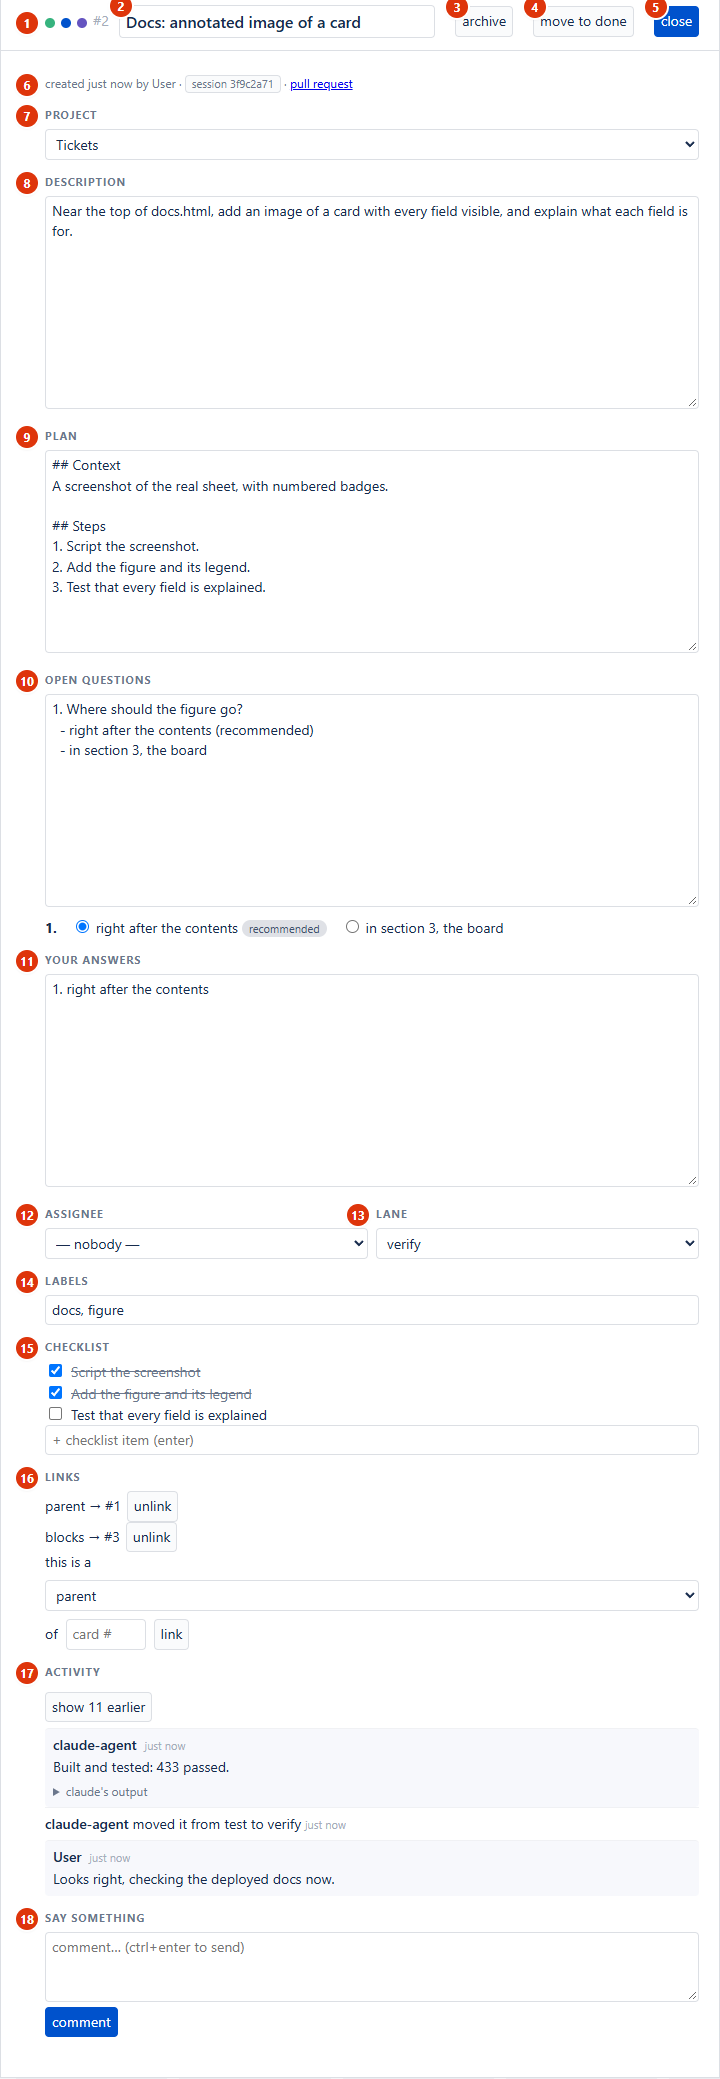
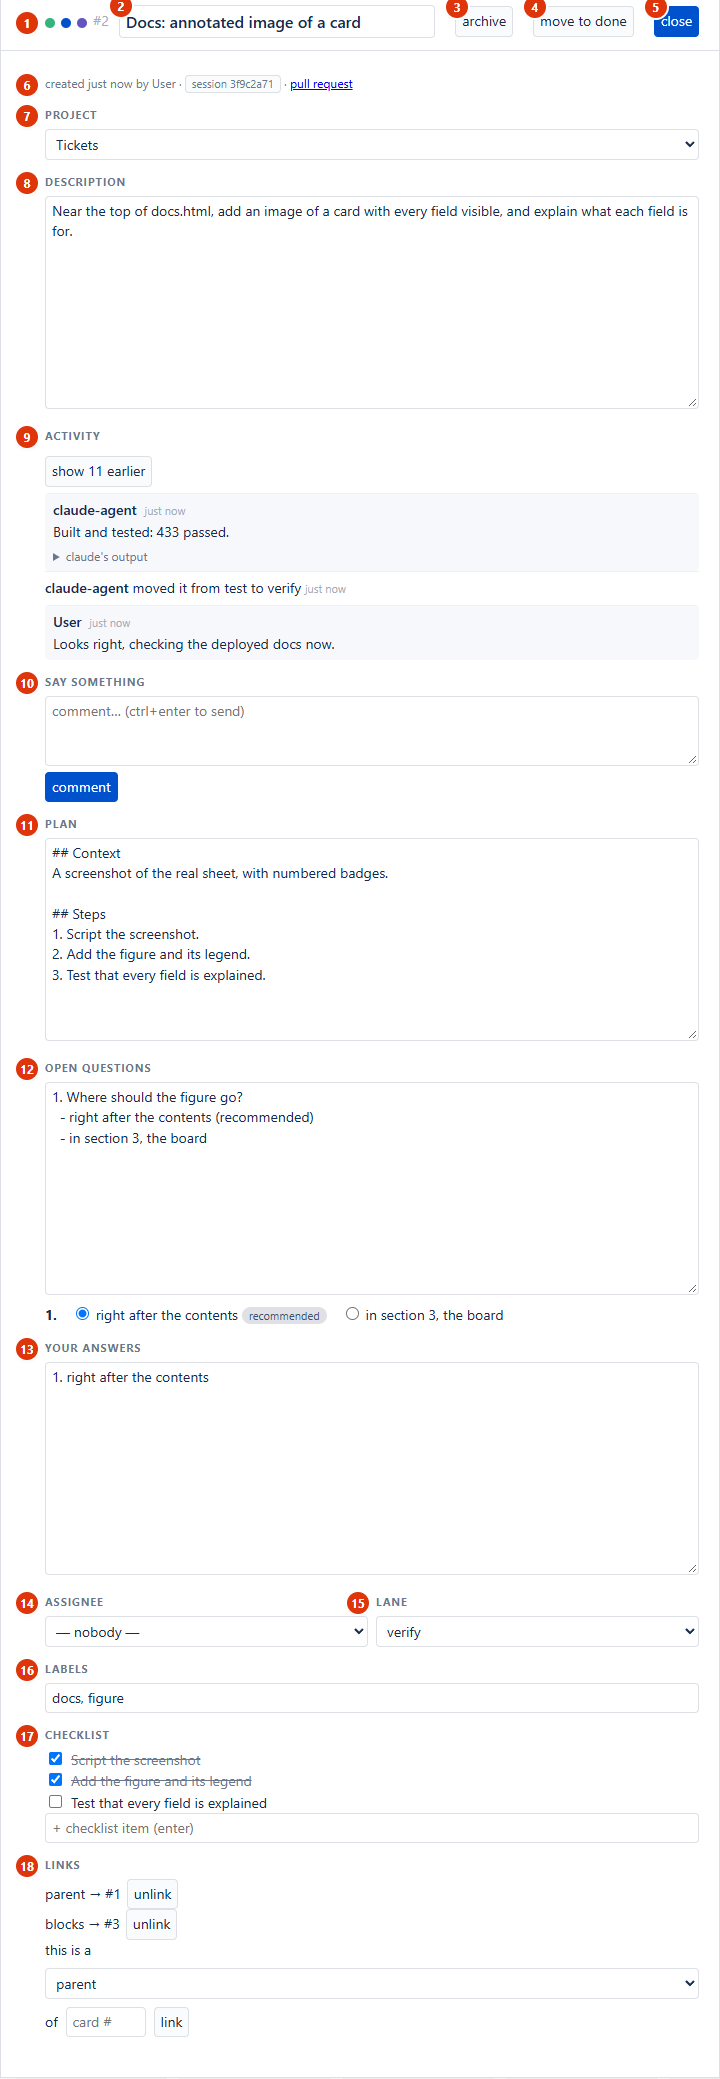
#97 regenerate the card figure for #94-#96: badges and legend follow the sheet's new order
Activity and say something now sit right under the description (#95), so the
markers, the docs.html legend and the screenshot number them 9 and 10. The
browser test compares the sheet's visible headings to MARKERS in order, so a
moved field fails it too. Legend notes which fields hide until filled (#96)
and that a new card has no activity or comment box (#94). PLAN.md drops the
"regenerate after #94-#96" note.

diff --git a/docs.html b/docs.html
@@ -79,13 +79,20 @@ board</a> has the details.</p>
     the agent works in.</li>
   <li data-field="description"><b>description</b>: your request: what you want and why. The
     agent never writes over it.</li>
+  <li data-field="activity"><b>activity</b>: everything that happened to the card and who did
+    it, with the comments. Older lines fold away behind "show N earlier"; an agent's comment
+    has a "claude's output" box with its whole run.</li>
+  <li data-field="say something"><b>say something</b>: a comment, logged with your name;
+    ctrl+enter sends it. A new card has neither this nor the activity until it is
+    created.</li>
   <li data-field="plan"><b>plan</b>: the agent's plan, written in <code>plan</code>. Its
-    steps become the checklist.</li>
+    steps become the checklist. Hidden until the agent writes one.</li>
   <li data-field="open questions"><b>open questions</b>: what the agent needs you to decide
     before it builds. A question with options gets a row of radio buttons below it, the
-    agent's pick marked "recommended".</li>
+    agent's pick marked "recommended". Hidden while there are none.</li>
   <li data-field="your answers"><b>your answers</b>: your replies to the questions; a radio
-    click writes one here. The next run replans with them.</li>
+    click writes one here. The next run replans with them. Shown once there are
+    questions.</li>
   <li data-field="assignee"><b>assignee</b>: who has the card: you, or an agent while it
     works. A card assigned to a person is never taken by an agent.</li>
   <li data-field="lane"><b>lane</b>: the stage it is in, the same as dragging it to another
@@ -96,11 +103,6 @@ board</a> has the details.</p>
   <li data-field="links"><b>links</b>: this card's parent, and the cards it blocks. A
     blocked card waits until its blockers reach <code>verify</code> or
     <code>done</code>.</li>
-  <li data-field="activity"><b>activity</b>: everything that happened to the card and who did
-    it, with the comments. Older lines fold away behind "show N earlier"; an agent's comment
-    has a "claude's output" box with its whole run.</li>
-  <li data-field="say something"><b>say something</b>: a comment, logged with your name;
-    ctrl+enter sends it.</li>
 </ol>
 
 <h2 id="what">1. What Tickets is (and isn't)</h2>

diff --git a/test_board.py b/test_board.py
@@ -2127,15 +2127,17 @@ def test_the_header_links_to_the_docs_in_a_new_tab(page):
 
 def test_the_docs_card_figure_numbers_every_field_the_sheet_shows(page):
     """docs-card.png is a screenshot (docs_card.py), so it cannot update itself: this is
-    what makes a new, renamed or vanished sheet field fail loudly instead of leaving the
+    what makes a new, renamed, moved or vanished sheet field fail loudly instead of leaving the
     docs' figure quietly wrong. Rerun docs_card.py when it fails, then fix the legend."""
     import docs_card
 
     page.evaluate("id => openCard(id)", docs_card.build_card())
     page.wait_for_selector("#panel.on h3")
-    headings = page.eval_on_selector_all("#panel h3", "hs => hs.map(h => h.textContent)")
+    headings = page.eval_on_selector_all(
+        "#panel h3", "hs => hs.filter(h => h.getClientRects().length).map(h => h.textContent)")
     numbered = [t[3:] for _, t in docs_card.MARKERS if t.startswith("h3:")]
-    assert sorted(headings) == sorted(numbered), "sheet fields vs. docs_card.MARKERS"
+    # in order too: the badges read top to bottom, so a moved field means a new screenshot
+    assert headings == numbered, "sheet fields vs. docs_card.MARKERS"
     assert page.evaluate(docs_card.MARK_JS, docs_card.MARKERS) == []   # every badge lands
     badges = page.locator("#panel .docs-badge")
     assert badges.count() == len(docs_card.MARKERS)

diff --git a/docs_card.py b/docs_card.py
@@ -20,7 +20,7 @@ import core
 OUT = Path(__file__).parent / "docs-card.png"
 PROJECT = "Tickets"
 
-# (key, target) in badge order. key is the data-field of the docs.html legend entry with
+# (key, target) in badge order, which is the sheet's top-to-bottom order. key is the data-field of the docs.html legend entry with
 # the same number; target finds the element: "h3:<label>" a sheet field by its heading,
 # "btn:<text>" a header button, anything else a CSS selector inside the sheet.
 MARKERS = [
@@ -32,6 +32,8 @@ MARKERS = [
     ("origin", "#panel > .sub"),
     ("project", "h3:project"),
     ("description", "h3:description"),
+    ("activity", "h3:activity"),
+    ("say something", "h3:say something"),
     ("plan", "h3:plan"),
     ("open questions", "h3:open questions"),
     ("your answers", "h3:your answers"),
@@ -40,8 +42,6 @@ MARKERS = [
     ("labels", "h3:labels"),
     ("checklist", "h3:checklist"),
     ("links", "h3:links"),
-    ("activity", "h3:activity"),
-    ("say something", "h3:say something"),
 ]
 
 # Draws the badges; returns the keys whose target is not on the sheet (none, when the

diff --git a/PLAN.md b/PLAN.md
@@ -345,13 +345,14 @@ three dots, session, pull request, plan, questions with options, answers, checkl
 labels, parent and blocks links, comments with claude's output) on a throwaway database,
 serves the board from its own process on a free port (never 8123), opens the card in
 Chrome, draws a red badge per entry of `docs_card.MARKERS` and saves the shot. The legend's
-`data-field`s follow `MARKERS` in order. A screenshot cannot update itself, so two tests
-keep it honest: the browser one opens the same card and fails when the sheet shows a field
-heading `MARKERS` does not name or a badge no longer finds its target; the HTTP one checks
-the PNG is served and the legend matches `MARKERS`. A change to how the sheet looks (#94,
-#95's comments moved under the description, #96's hidden empty fields) still needs the
-script run again by hand: the card it builds has every field filled, so #96's hiding never
-drops one from the figure.
+`data-field`s follow `MARKERS` in order, which is the sheet's top-to-bottom order
+(activity and say something right under the description, #95). A screenshot cannot update
+itself, so two tests keep it honest: the browser one opens the same card and fails when the
+sheet's field headings differ from those `MARKERS` names, in order, or a badge no longer
+finds its target; the HTTP one checks the PNG is served and the legend matches `MARKERS`.
+Any other change to how the sheet looks needs the script run again by hand. The card it
+builds has every field filled, so #96's hiding of empty fields never drops one from the
+figure.
 
 ## Board (`board.html`)
 
